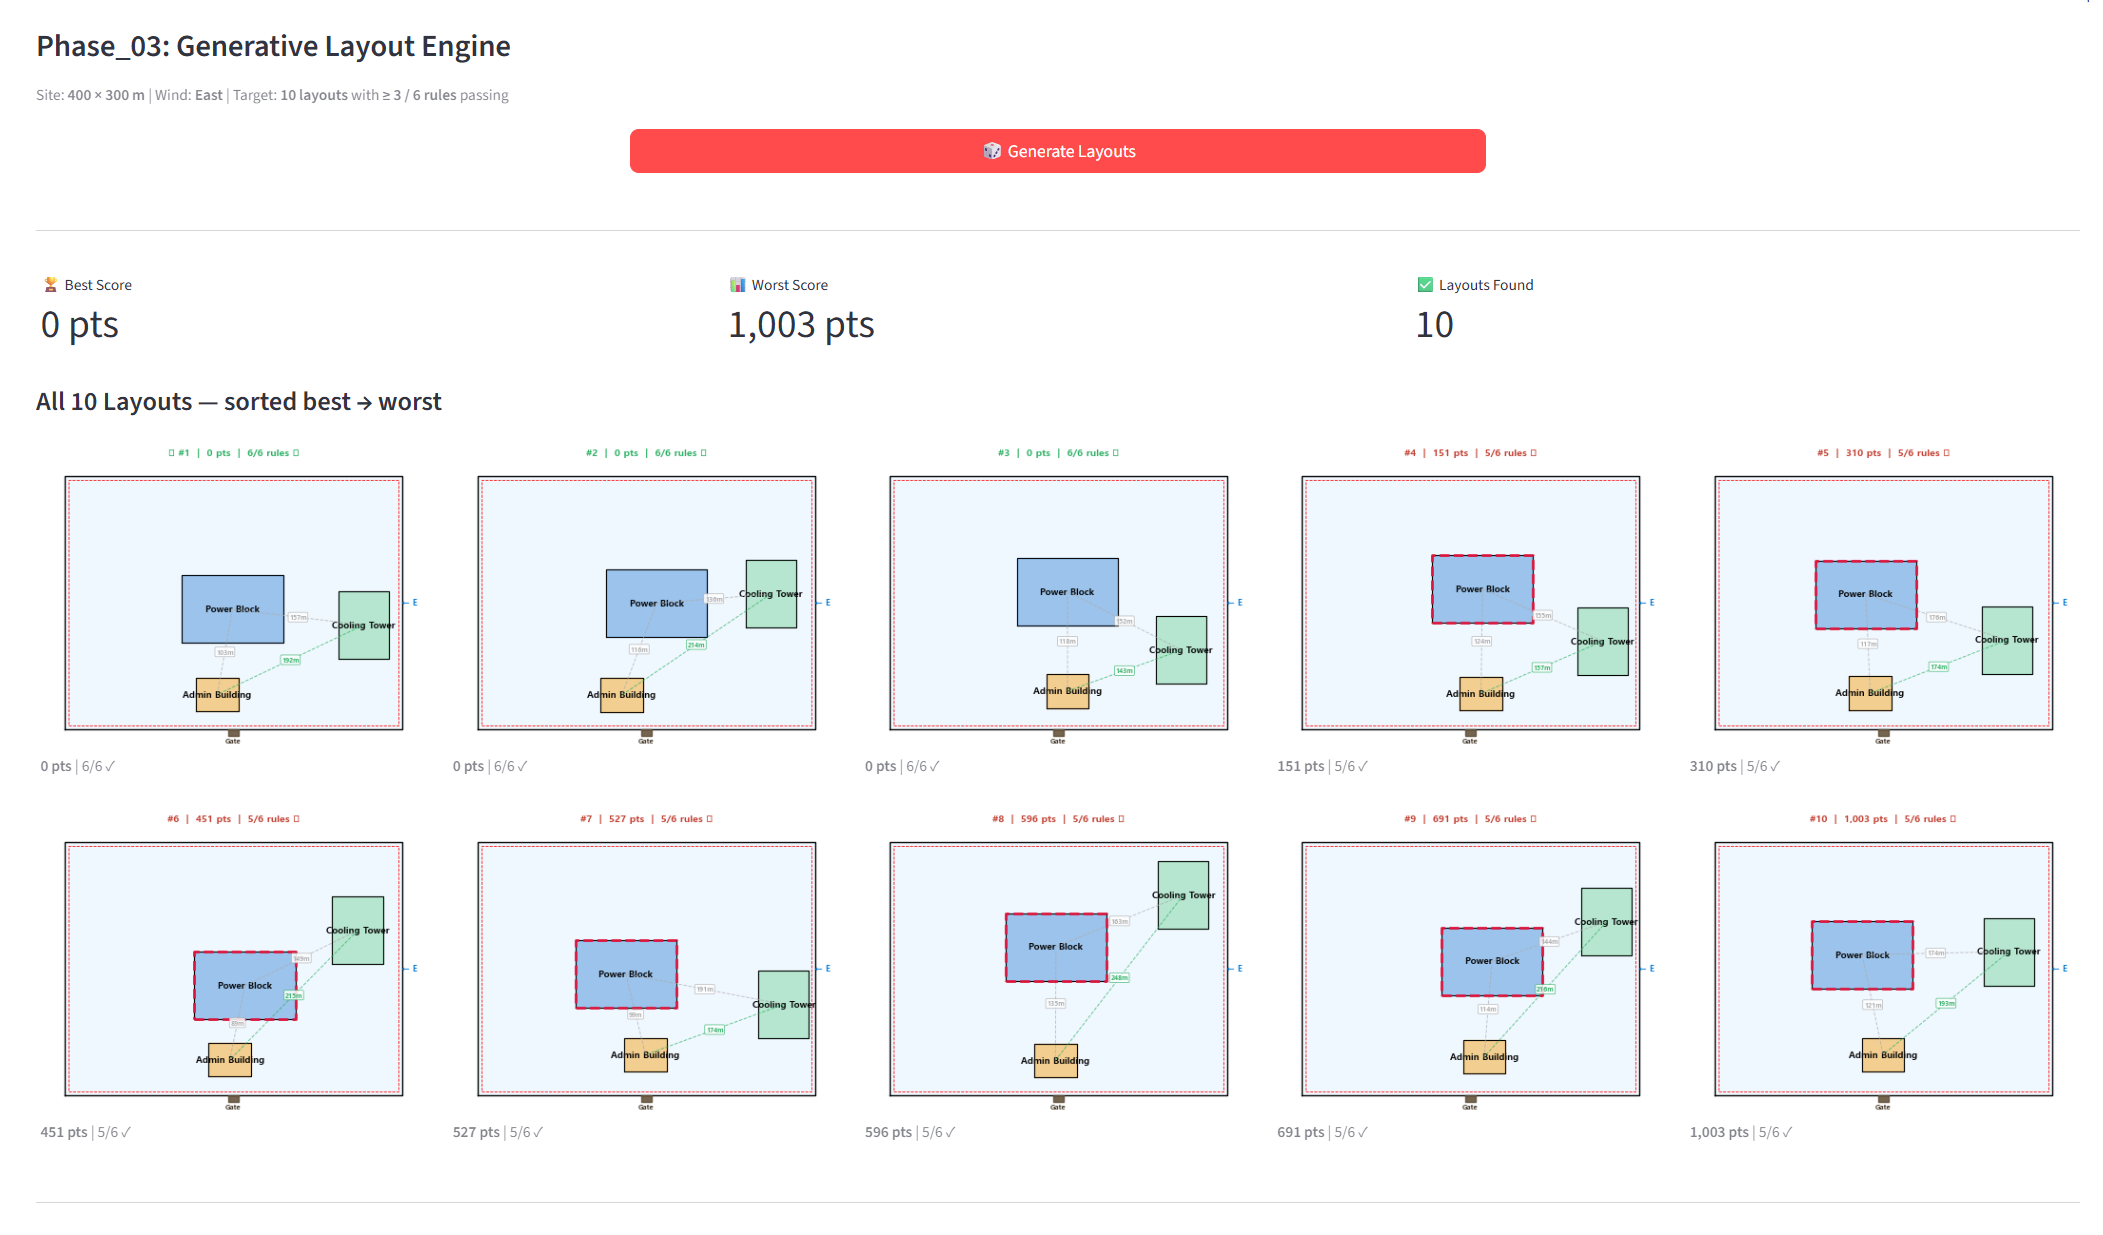
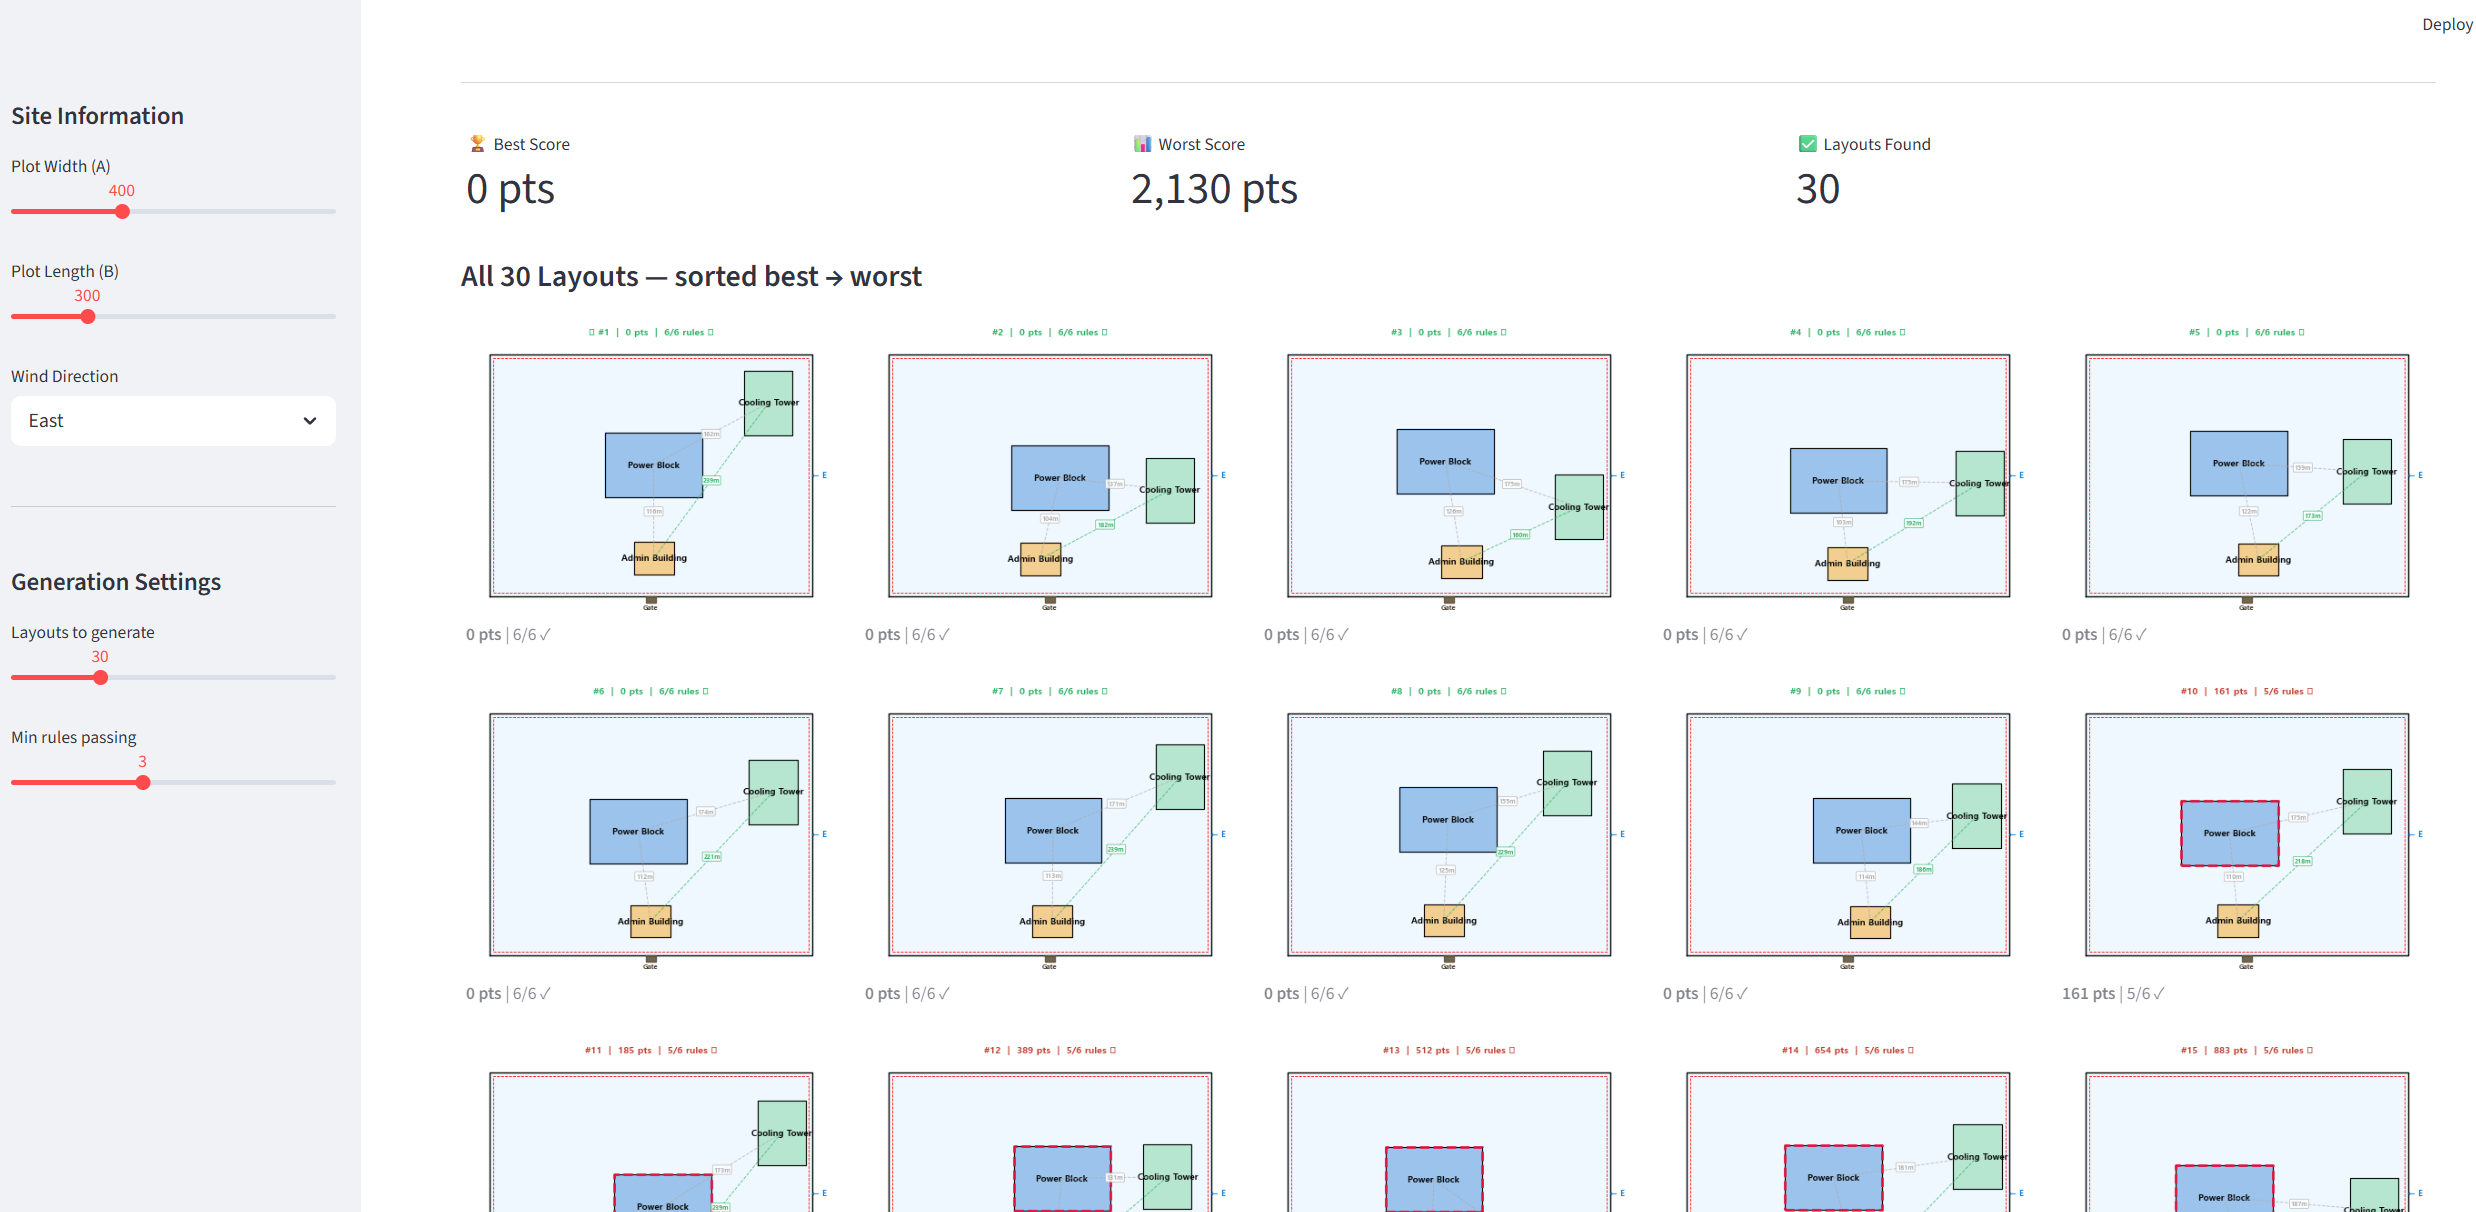
vault backup: 2026-05-06 11:16:44

diff --git a/01_Products/Layout_Gen_Design/Pipeline/Phase_03/Phase 03 Notes.md b/01_Products/Layout_Gen_Design/Pipeline/Phase_03/Phase 03 Notes.md
@@ -1,13 +1,13 @@
-# Phase 03 Notes — Rules Engine & Visual Alerts
+# Phase 03 Notes — Rules Engine & Generative Layout
 
 ## Goal
-Activate the penalty-scoring rule engine and make violations **visually evident** on the plot and in a live score panel below.
+Activate the penalty-scoring rule engine, visually display violations, and implement an automated generative layout engine with CAD export capabilities.
 
 ## Rules Implemented
 
 | ID | Group | Constraint | Penalty Type | Logic |
 |---|---|---|---|---|
-| PB-01 | Power Block | Center proximity | 100 pts/m from plot center | Euclidean distance, center-to-center |
+| PB-01 | Power Block | Center proximity | 100 pts/m from plot center | Euclidean distance, center-to-center **(±20m tolerance zone)** |
 | PB-02 | Power Block | 5m road setback | 5,000 pts flat | Any edge closer than 5m to site boundary |
 | CT-01 | Cooling Tower | Windward edge placement | 1,000 pts flat | Must be within 30m of the windward side |
 | CT-02 | Cooling Tower | ≥50m from Admin | 500 pts/m shortfall | Center-to-center distance |
@@ -17,17 +17,21 @@ Activate the penalty-scoring rule engine and make violations **visually evident*
 ## Architecture Decisions
 
 - **`Rules.py` is stateless** — no Streamlit imports, callable independently.
-- Each rule returns a standardized dict: `{id, name, group, passed, penalty, message}`.
+- Each rule returns a standardized dict: `{id, name, group, passed, penalty, message, measured, threshold, calc}` for full transparency.
 - `evaluate_all()` returns `violations_by_group` dict for direct use by the dashboard overlay.
-- **RED overlay is drawn in `app.py`**, not in `draw_group()` — keeps Core free of UI-state logic.
-- Gate House position is a Phase 03 assumption; will be replaced by an actual building in a future phase.
+- **Generative Engine (`Core/Main.py`)**: Uses constrained random placement (e.g., CT forced to windward zone, Admin forced near gate) + a diversity filter to generate up to 100 unique candidate layouts.
+- **CAD Export (`Core/Exporter.py`)**: Uses `ezdxf` to generate true 1:1 scale DXF files. Zero Streamlit UI dependencies in the core exporter logic.
 
 ## Visual Outputs
-- Violating buildings: **crimson dashed border** + `⚠ rule-id` badge above the building.
-- Below the plot: 3 top-level metrics (total penalty, rules passing, rules failing).
-- Detailed rule results table with status icon, penalty amount, and detail message.
+- **Main Dashboard Grid**: Shows up to 100 generated layout thumbnails ranked by penalty score.
+- **Rule Inspector**: Dropdown to select a layout and view an expandable breakdown of all 6 rules (showing measured values vs thresholds).
+- **On-Plot Annotations**:
+  - Violating buildings: **crimson dashed border** + `⚠ rule-id` badge.
+  - Dashed inter-building distance lines (Red if rule violated, Gray if neutral).
+  - Double-headed setback brackets (Green if passing, Red if violating).
+- **DXF Output**: Downloadable CAD file with 7 distinct named layers (Boundary, Setbacks, Gate House, Buildings, Dimensions, Labels).
 
 ## Open Items for Phase 04
 - [ ] Implement `Rules.py` auto-parsing from `!Scoring_Logic.md` (Phase 4 note in the file).
-- [ ] Add Gate House as an actual placed building with its own slider.
-- [ ] `Main.py` orchestrator: iterate N random layouts and return the best-scoring one.
+- [ ] Excel Integration: Parse all 60+ items from `Plot plan requirement.xlsx`.
+- [ ] Add Gate House as an actual placed building with its own constraint rules.
